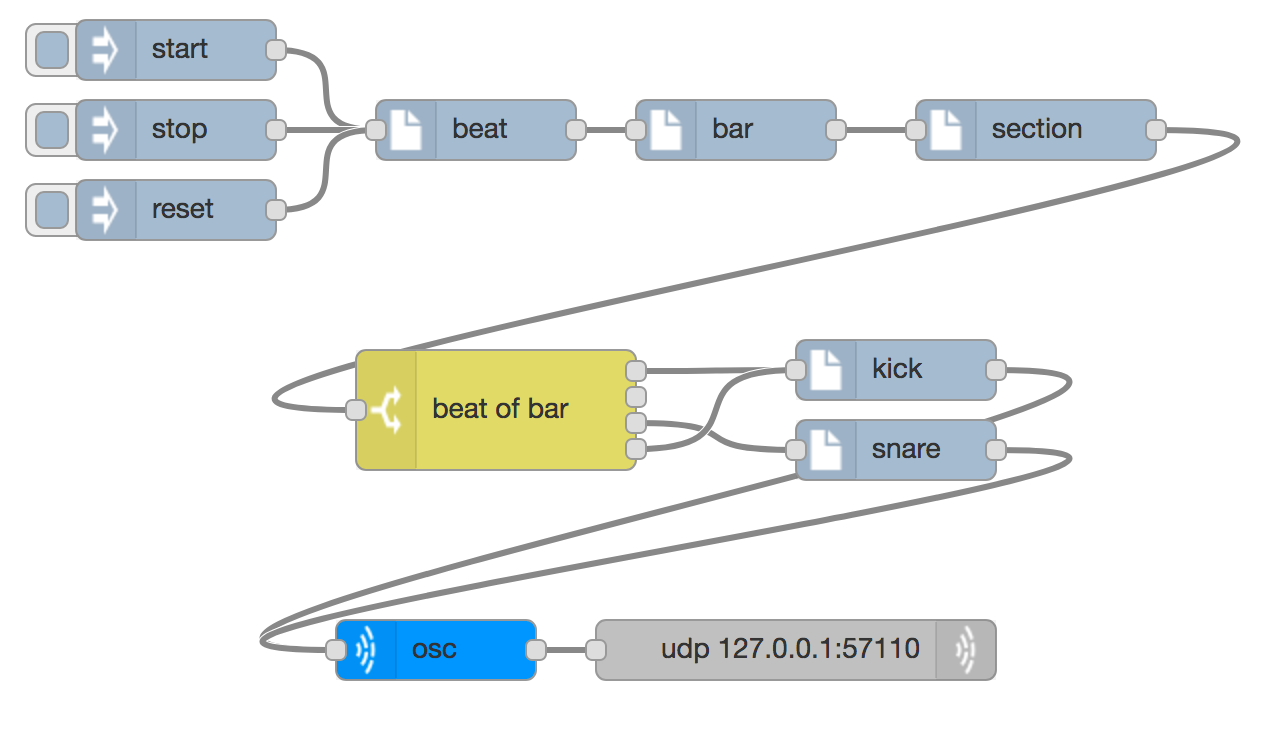
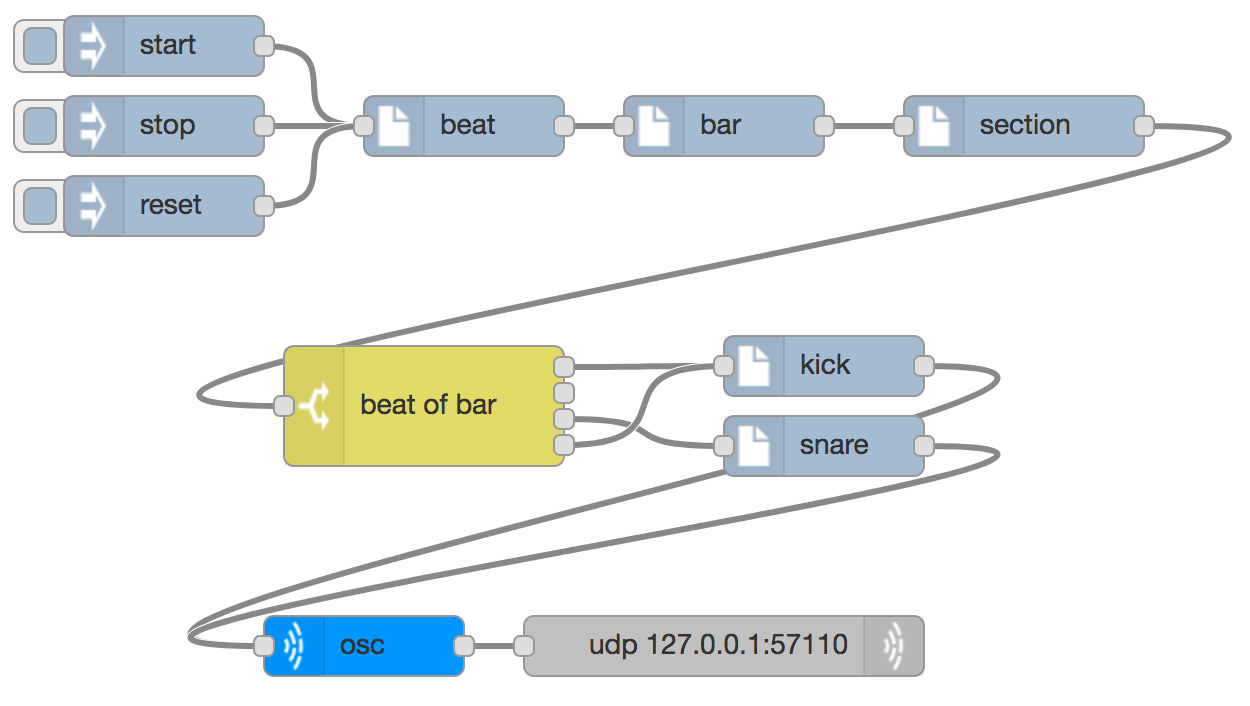
updates for new default synth type

diff --git a/node-red-contrib-music/making-music.md b/node-red-contrib-music/making-music.md
@@ -12,13 +12,13 @@ In [node-red basics](node-red-basics) you used an `inject` node to send a messag
 
 First of all delete the debug node by selecting it and hitting the delete/backspace key. To select it just click on it, and you will see it outlined in orange. To select many nodes, either to delete them or move them around, drag a box around them with the mouse.
 
-Next add a `synth` node, which is in the _music_ section of the palette. By default this makes a piano sound, which will suit us fine. Next we need to get the synth instructions sent across to SuperCollider. To do this you are going to import some things from the library, where the relevant parts are already put together for you. At the top-right corner of the node red screen are the three lines of a "hamburger" menu.
+Next add a `synth` node, which is in the _music_ section of the palette. By default this makes a bass drum (kick drum) sound, which will suit us fine. Next we need to get the synth instructions sent across to SuperCollider. To do this you are going to import some things from the library, where the relevant parts are already put together for you. At the top-right corner of the node red screen are the three lines of a "hamburger" menu.
 
 ![node-red hamburger menu](node-red-menu.png)
 
 Click on here and select Import > Library > Music > supercolliderOSC. Three pre-joined nodes appear which you can place anywhere, including an OSC node and a UDP node.
 
-OSC stands for _Open Sound Control_ and it is a protocol designed for
+OSC stands for _Open Sound Control_: it is a protocol designed for
 packaging music information, and the SuperCollider server expects
 messages in this format. It is connected to a `udp` node (short for
 User Datagram Protocol) which sends information between different
@@ -31,13 +31,13 @@ You may recognise the IP address used by the UDP node (127.0.0.1) as the address
 
 To the left of the osc node is another node with an arrow on that you don't need for now, so just delete it.
 
-You need the output of the piano synth node to go to the input of the osc node, so add a wire between them.
+You need the output of the kick synth node to go to the input of the osc node, so add a wire between them.
 
-The `inject` node needs to be configured to send a message with a payload of "tick" and no topic, and its output needs to feed the input of the piano synth, so add a wire to do that. Now you should have a flow looking a bit like this:
+The `inject` node needs to be configured to send a message with a payload of "tick" and no topic, and its output needs to feed the input of the kick synth, so add a wire to do that. Now you should have a flow looking a bit like this:
 
 ![nodes to make a sound](first-sound.png)
 
-Deploy this and click on the `inject` and you should hear a piano-like sound. If you don't then make sure that
+Deploy this and click on the `inject` and you should hear a drum-like sound. If you don't then make sure that
 
 * You have something (probably headphones) plugged into the correct headphone socket.
 * The sound isn't muted (see the top-right corner of the screen)
@@ -51,11 +51,11 @@ The next music node to look at is the `beat` node, which behaves like a metronom
 
 ![Parts for a beat generator](beat-parts.png)
 
-We will talk about the `bar` and `section` nodes later, but for now delete the link node on the right and the node for injecting `tick` that you defined before. Connect the output of `section` to the input of `piano` and you have something like this (the piano node has been moved here too):
+We will talk about the `bar` and `section` nodes later, but for now delete the link node on the right and the node for injecting `tick` that you defined before. Connect the output of `section` to the input of `kick` and you have something like this (the kick node has been moved here too):
 
-![Beat generator and a piano synth](beat-piano.png)
+![Beat generator and a kick synth](beat-kick.png)
 
-In this flow when you click to inject a message with the payload `start` the beat generator will start sending `tick` messages through the two divider nodes, into the synth and then off to SuperCollider to make a sound like a toddler pressing a piano key repeatedly. Once the interest of this dies away (this may take several seconds) then you can stop the beats and the sounds by injecting a `stop` or `reset` message.
+In this flow when you click to inject a message with the payload `start` the beat generator will start sending `tick` messages through the two divider nodes, into the synth and then off to SuperCollider to make a sound like a toddler hitting a drum repeatedly. Once the interest of this dies away (this may take several seconds) then you can stop the beats and the sounds by injecting a `stop` or `reset` message.
 
 The beat can be made faster or slower by configuring the `beat` node (try it). You can also change the speed of the beat while it is running by sending it a message with topic `bpm` and a payload of the new number of beats per minute. You can try this by adding one or more new `inject` nodes  which feed into the `beat` node.
 
@@ -165,11 +165,16 @@ list, but more complicated isn't always better when it comes to drum beats.
 * Change the `kick` and `snare` synths to use different instruments
 * Add one or more different synths: make more than one sound on the
   same beat if you want
+* If you find the beat sounds a little bit uneven that is because the
+  amount of time it takes for messages to pass through all the nodes
+  will vary. You can fix this by adding some "latency" in the `beat`
+  node, which will tell the beat to happen at a point in the future
+  rather than immediately.
 * Change the number of beats in the bar. Eight or sixteen beats allows
   you to do a more interesting rhythm. Mission Impossible uses ten
   beats, as does one of the regular tunes from Doctor Who. To do this
   you will have to reconfigure the `bar` node and add some more rules
-  to the `beat of bar` switch node
+  to the `beat of bar` switch node.
 * Use the `bar_of_section` property which is added by the `section`
   divider nodes (there are eight bars in a section) so that the first
   or last bar of every section has a different rhythm (sometimes
@@ -177,6 +182,8 @@ list, but more complicated isn't always better when it comes to drum beats.
   to create another rhythm, plus another `switch` node that uses the
   `bar_of_section` property to choose which `beat of bar` node to send
   the tick to.
+* Add a sub-beat to the beat generator at the bottom of the beat configuration. In music, half a beat is
+  called a quaver, so there are two quavers per beat. 
 
 Once you've got your drum beat created you can plug in a loudspeaker
 instead of a pair of headphones and we can get to hear them all. The

diff --git a/node-red-contrib-music/controlling-synths.md b/node-red-contrib-music/controlling-synths.md
@@ -52,4 +52,14 @@ Other synth types also have parameters you might like to change with a `synthcon
 * `blip` has parameters `att` and `rel` which control the attack time and release time - the amount of time in seconds it takes for the sound to start and end. The standard values are 0.01 for `att` and 1 for `rel` but you could make them any range you wanted
 * `prophet` has many parameters, including `lforate`, which is usually 10
 
+# Automated control
+
+If you have a piece of music you have developed, you could apply volume or tempo changes throughout the piece by dragging sliders or clicking on inject nodes, but that may be unsatisfactory for a few reasons
+
+* it is difficult to do a very slow and controlled change with a slider
+* you might need to change more than one thing at once
+* automating things is what computers are good at
+
+One way to do this is to use the beats that are created to create regular messages increasing or decreasing the volume, or some other control value. Taking the output of the beat generator directly will not work because we need to have a message that has topic `up` and payload `1`, but the beat messages have no topic and a payload of `tick`. To make this work we can use the standard node `change`, which is in the _function_ group of the palette.
+
 With all of these features of sound that you can control,you have enough knowledge to try [creating](creating) a larger piece of music.
